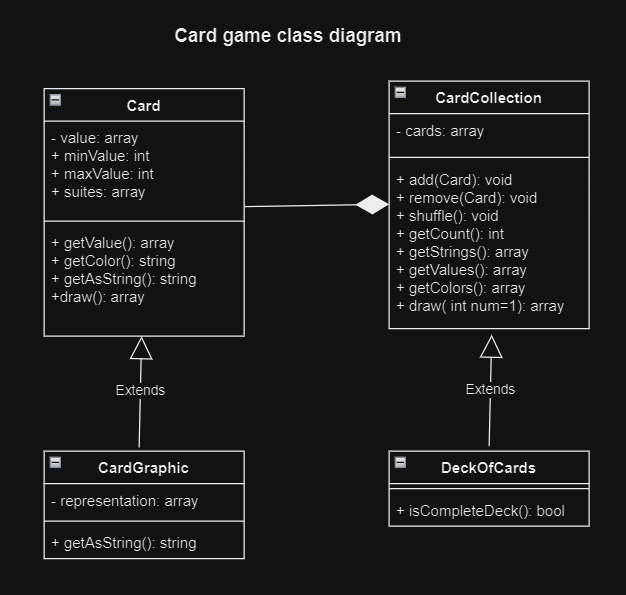
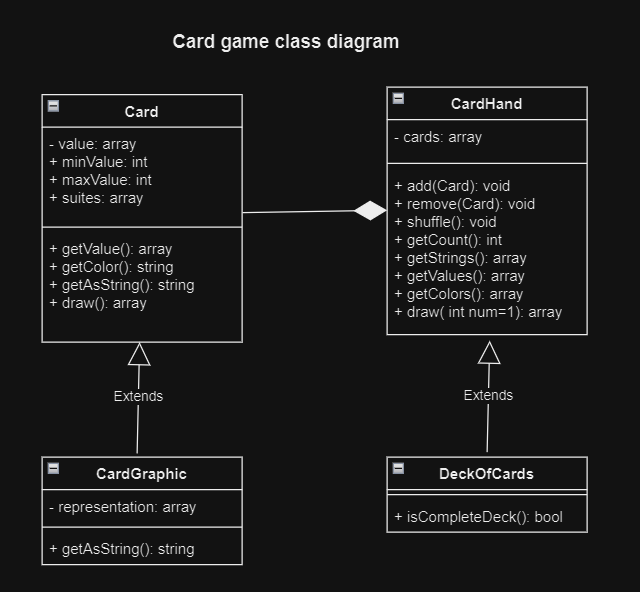
updated files for kmom02

Changed region(s): [[0.0607, 0.1216, 0.9409, 0.973], [0.2732, 0.0304, 0.6374, 0.0912]]

diff --git a/assets/styles/app.scss b/assets/styles/app.scss
@@ -1,3 +1,4 @@
+@import url('https://fonts.googleapis.com/css2?family=Roboto+Mono:ital,wght@0,300;0,400;0,600;0,700;1,300;1,400;1,600;1,700&family=Source+Serif+Pro:ital,wght@0,400;0,600;0,700;0,900;1,400;1,600;1,700;1,900&display=swap');
 @import "variables";
 @import "header";
 @import "navbar";

diff --git a/src/Controller/JsonApiController.php b/src/Controller/JsonApiController.php
@@ -3,7 +3,7 @@
 namespace App\Controller;
 
 use App\Card\Card;
-use App\Card\CardCollection;
+use App\Card\CardHand;
 use App\Card\DeckOfCards;
 use Symfony\Bundle\FrameworkBundle\Controller\AbstractController;
 use Symfony\Component\HttpFoundation\Response;
@@ -112,7 +112,7 @@ class JsonApiController extends AbstractController
             $deckSize = $deck->getCount();
 
             if ($deckSize >= 1) {
-                $randomCards = new CardCollection();
+                $randomCards = new CardHand();
                 $randomCard = $deck->draw();
                 $randomCards->add($randomCard[0]);
 
@@ -145,7 +145,7 @@ class JsonApiController extends AbstractController
             $deckSize = $deck->getCount();
 
             if ($deckSize >= $num) {
-                $randomCards = new CardCollection();
+                $randomCards = new Cardhand();
                 $randomCardsFromDeck = $deck->draw($num);
 
                 foreach ($randomCardsFromDeck as $randCard) {
@@ -181,7 +181,7 @@ class JsonApiController extends AbstractController
             ];
         }
 
-        if ($drawnCards instanceof CardCollection) {
+        if ($drawnCards instanceof CardHand) {
             $data["CardsDrawn"] = $drawnCards->getStrings();
             $data["CardsColor"] = $drawnCards->getColors();
         }

diff --git a/src/Controller/GameController.php b/src/Controller/GameController.php
@@ -4,7 +4,7 @@ namespace App\Controller;
 
 use App\Card\Card;
 use App\Card\CardGraphic;
-use App\Card\CardCollection;
+use App\Card\CardHand;
 use App\Card\DeckOfCards;
 use Symfony\Bundle\FrameworkBundle\Controller\AbstractController;
 use Symfony\Component\HttpFoundation\Response;
@@ -126,13 +126,12 @@ class GameController extends AbstractController
             "cardColors" => []
         ];
 
-        // Draw random cards
         if ($deck instanceof DeckOfCards) {
             if ($deck->getCount() < $num) {
                 return $this->redirect('/card/init/card_deck_draw_num');
             }
 
-            $randomCards = new CardCollection();
+            $randomCards = new CardHand();
             $randomCardsFromDeck = $deck->draw($num);
 
             foreach ($randomCardsFromDeck as $randCard) {

diff --git a/src/Card/CardHand.php b/src/Card/CardHand.php
@@ -4,7 +4,7 @@ namespace App\Card;
 
 use App\Card\Card;
 
-class CardCollection
+class CardHand
 {
     /**
      * @var array<Card> $cards
@@ -23,19 +23,15 @@ class CardCollection
 
     public function remove(Card $card): void
     {
-        // Find the index of the Card object
         $index = array_search($card, $this->cards);
-        // Remove the Card object
         if ($index) {
             unset($this->cards[$index]);
-            // Reindex array?
-            // $this->cards = array_values($this->cards);
         }
     }
 
     public function shuffle(): void
     {
-        // Change the order of the cards array
+        // Shuffle the cards array
         shuffle($this->cards);
     }
 

diff --git a/src/Card/Card.php b/src/Card/Card.php
@@ -78,7 +78,6 @@ class Card
      */
     public function draw()
     {
-        // Generate a new random suite and number
         $randSuites = array_rand($this->suites, 1);
         $number = random_int($this->minValue, $this->maxValue);
 

diff --git a/src/Card/DeckOfCards.php b/src/Card/DeckOfCards.php
@@ -2,9 +2,9 @@
 
 namespace App\Card;
 
-use App\Card\CardCollection;
+use App\Card\CardHand;
 
-class DeckOfCards extends CardCollection
+class DeckOfCards extends CardHand
 {
     public function __construct()
     {
